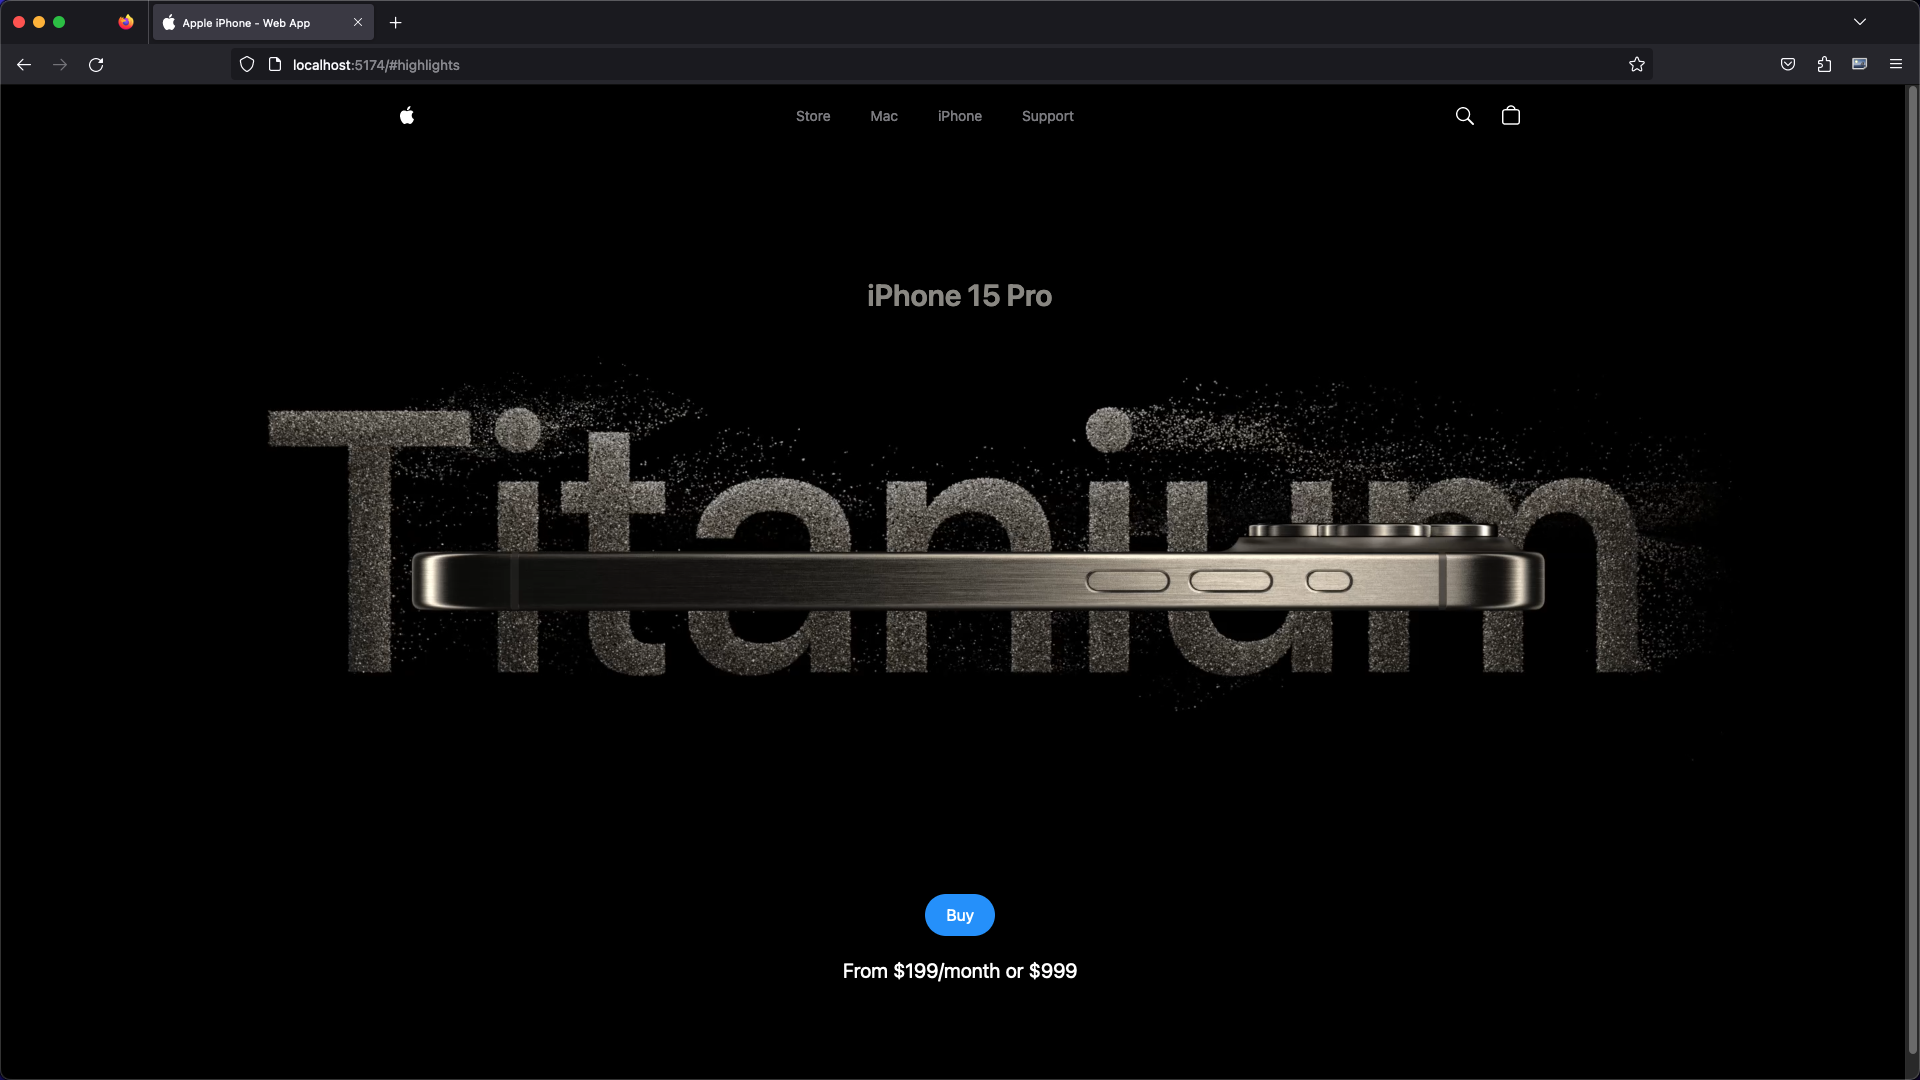
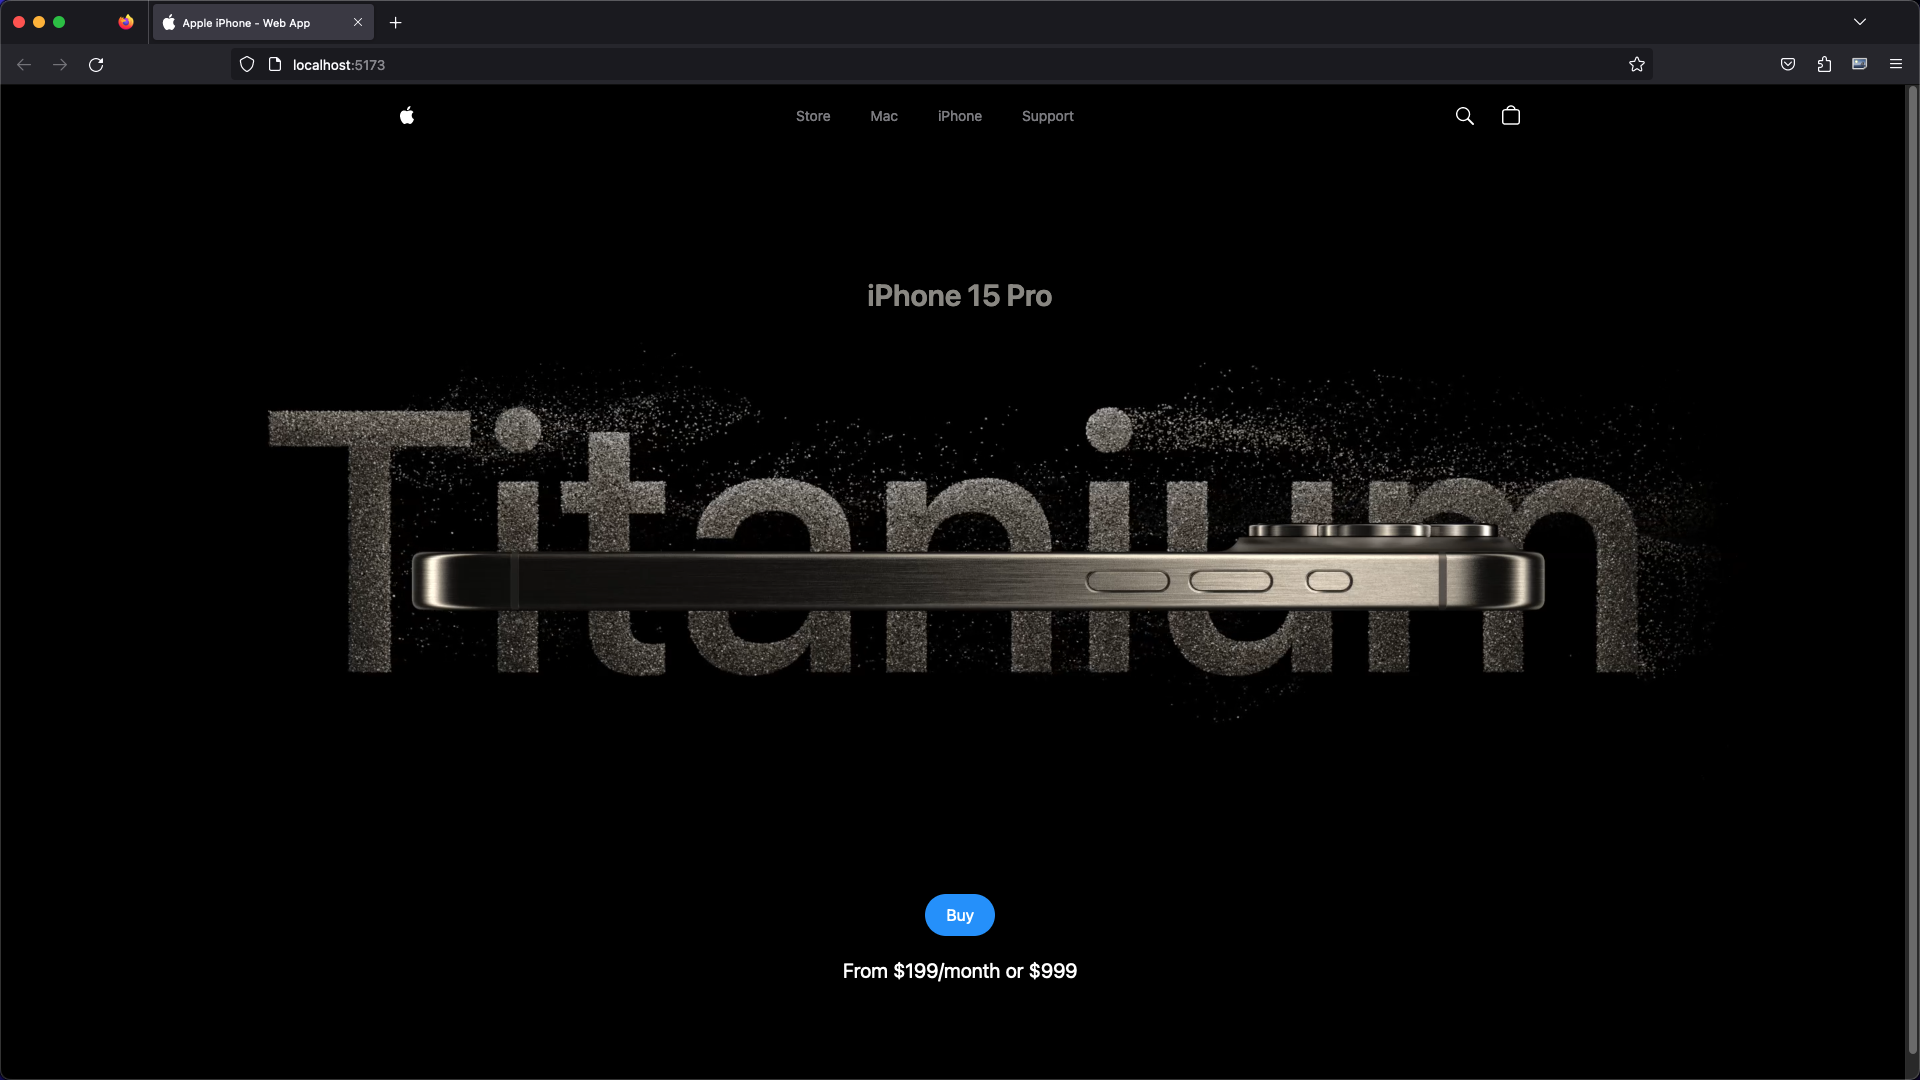
Commit

diff --git a/src/App.jsx b/src/App.jsx
@@ -1,6 +1,6 @@
 import Hero from './components/Hero';
 import Navbar from './components/Navbar';
-import Highlights from './components/Highlights';
+/* import Highlights from './components/Highlights'; */
 import * as Sentry from '@sentry/react';
 
 const App = () => {
